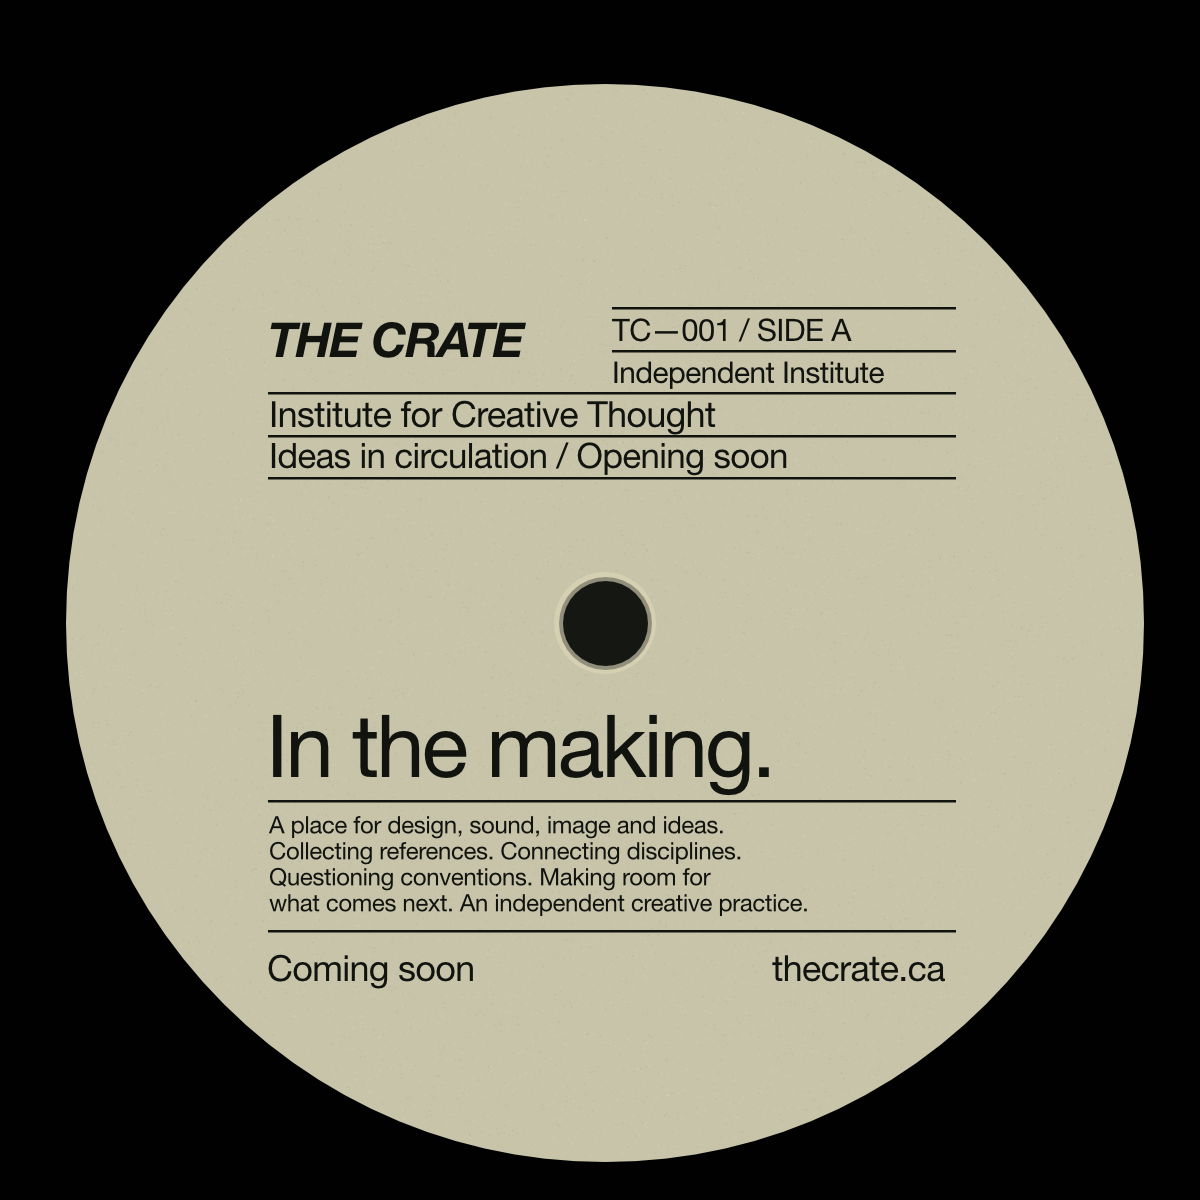
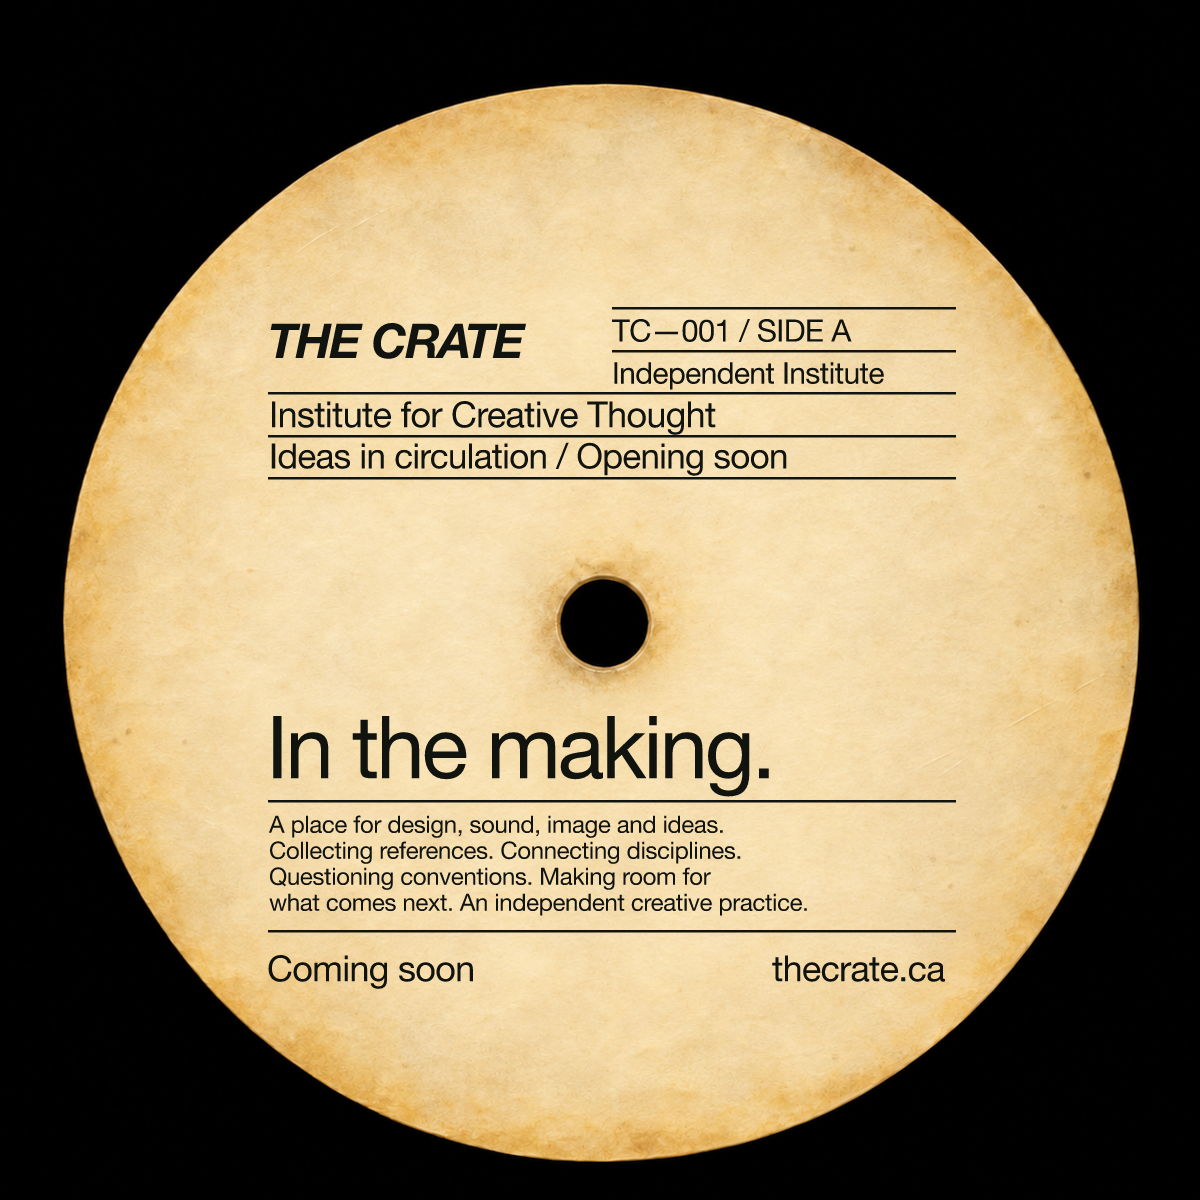
Apply worn cream label with crisp editable typography

diff --git a/index.html b/index.html
@@ -9,7 +9,7 @@
 <meta property="og:description" content="Ideas in circulation. A place for design, sound, image and ideas. Opening soon.">
 <meta property="og:url" content="https://thecrate.ca/"><meta property="og:image" content="https://thecrate.ca/assets/label-share.png">
 <style>
-*{box-sizing:border-box}html{background:#000100;color:#11130f}body{margin:0;font-family:'Helvetica Neue',Helvetica,Arial,sans-serif}main{min-height:100svh;display:grid;place-items:center}article{position:relative;width:min(100vw,96svh,1200px);aspect-ratio:1;container-type:inline-size;background:url('assets/label-paper.svg') center/100% 100% no-repeat}.type{position:absolute;margin:0;padding:0}.rule{position:absolute;background:#11130f}::selection{background:#11130f;color:#c8c4aa}
+*{box-sizing:border-box}html{background:#000100;color:#11130f}body{margin:0;font-family:'Helvetica Neue',Helvetica,Arial,sans-serif}main{min-height:100svh;display:grid;place-items:center}article{position:relative;width:min(100vw,96svh,1200px);aspect-ratio:1;container-type:inline-size;background:url('assets/worn-label-paper.png') center/100% 100% no-repeat}.type{position:absolute;margin:0;padding:0}.rule{position:absolute;background:#11130f}::selection{background:#11130f;color:#c8c4aa}
 </style></head><body><main><article aria-label="The Crate — Institute for Creative Thought record label">
 <h1 class="type" style="left:22.3333%;top:26.03%;width:28.3333%;font-size:4cqw;line-height:1.15;letter-spacing:-0.035em;font-weight:700;font-style:italic">THE CRATE</h1>
 <span class="rule" aria-hidden="true" style="left:51%;top:25.5833%;width:28.6667%;height:0.208333%"></span>
